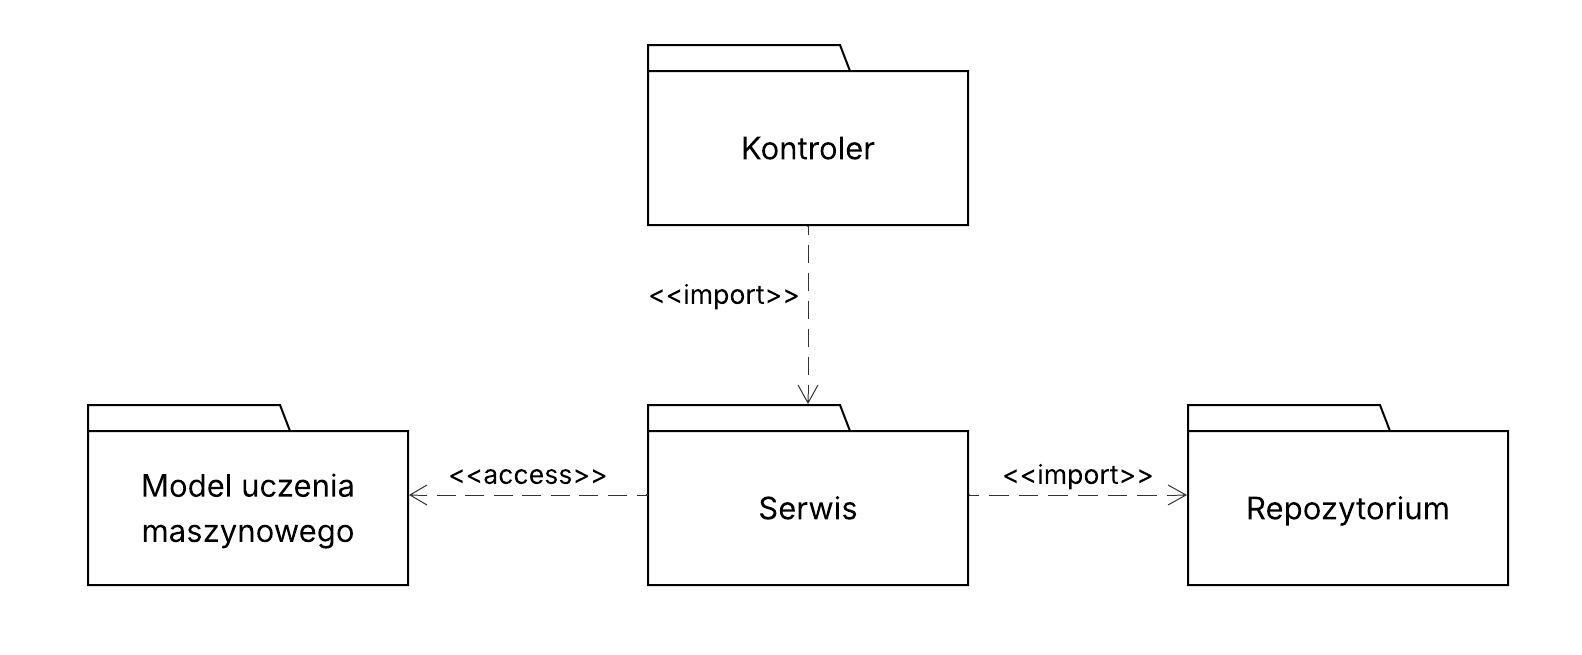
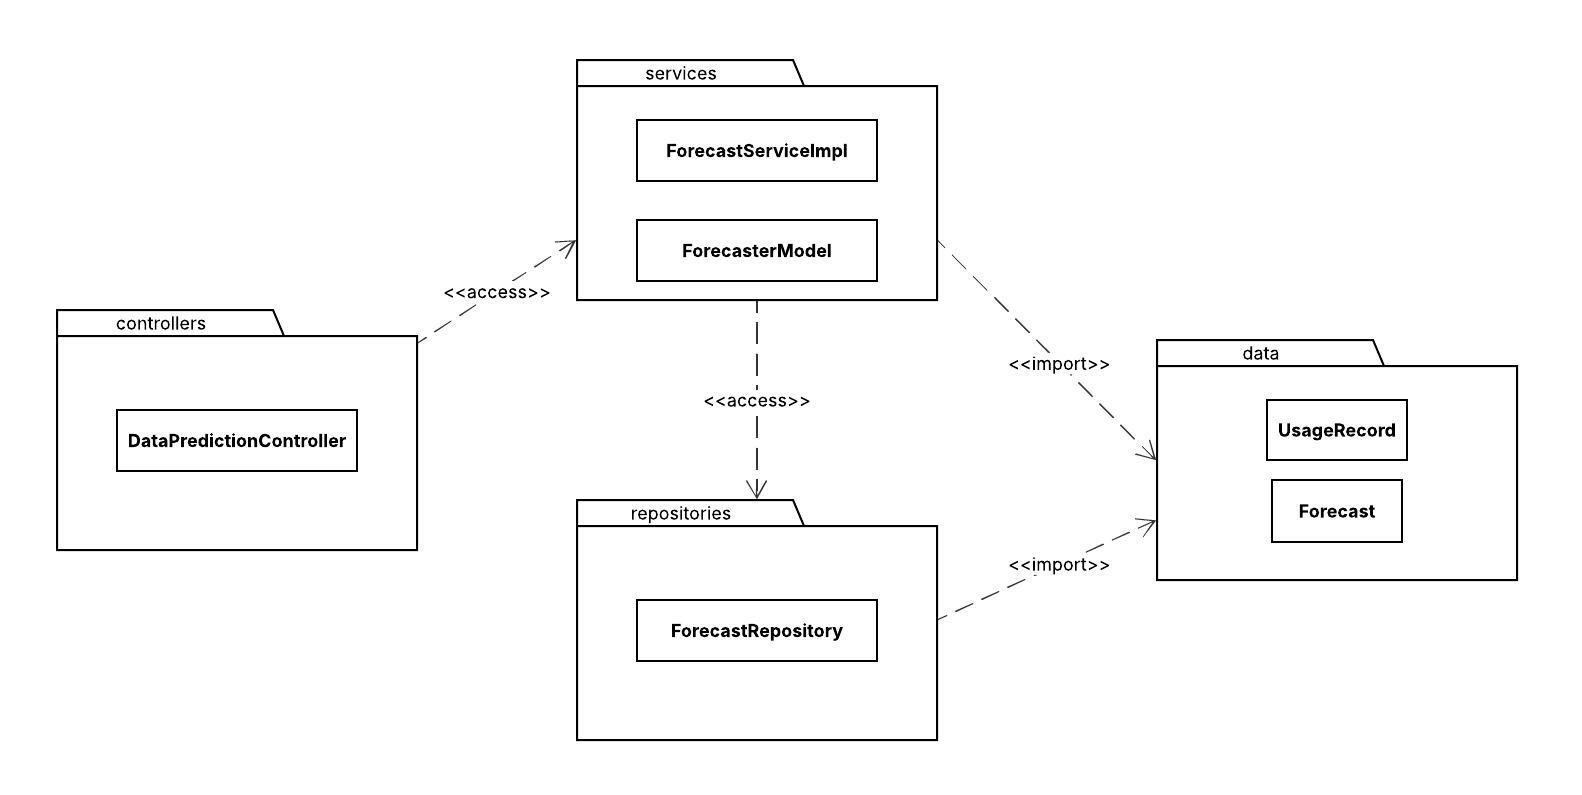
diagram interakcji, zostały same gówna

diff --git a/doc/prognozowanie/dokumentacja.md b/doc/prognozowanie/dokumentacja.md
@@ -149,9 +149,9 @@ Na diagramie zostały zaprezentowane relacje pomiędzy poszczególnymi pakietami
 
 # Diagram przeglądu interakcji
 
-Miejsce na diagram
+![Diagram przeglądu interakcji](img/interaction_diagram.jpeg)
 
-Miejsce na opis diagramu
+Diagram przedstawia przepływ sterowania dla przypadku wyświetlenia prognozy zużycia energii elektrycznej.
 
 # Diagram strukturalny
 